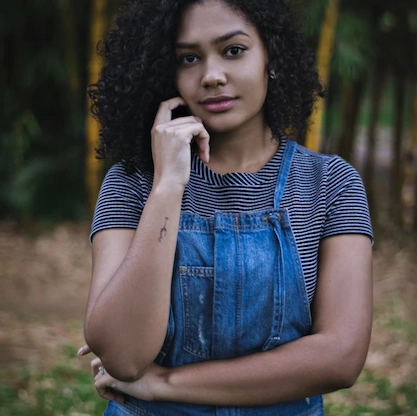
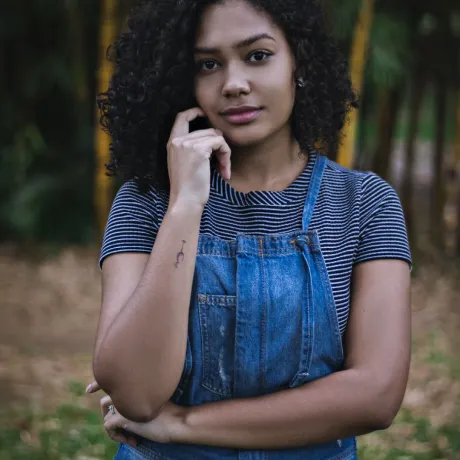
modif_taille

Changed region(s): [[0.4365, 0.3438, 0.9041, 0.7188], [0.2182, 0.4062, 0.3741, 0.5625]]

diff --git a/index.html b/index.html
@@ -141,12 +141,11 @@
     </div>
     <div id="about">
       <div class="picture left">
-        <img width="426" height="425" 
+        <img width="600" height="425" 
         srcset="
-        ./assets/images/nina-small.webp 400w,
-        ./assets/images/nina-min.webp 420w,
-        ./assets/images/nina-medium.webp 700w"
-        src="./assets/images/nina-min.webp"  alt="Autoportrait Nina Carducci" loading="lazy">
+        ./assets/images/nina-small.webp 800w,
+        ./assets/images/nina.webp 1920w"
+        src="./assets/images/nina.webp"  alt="Autoportrait Nina Carducci" loading="lazy">
       </div>
       <div id="about-me">
         <h2 class="about-me__title">A propos de moi</h2>
@@ -323,8 +322,8 @@
         </div>
         <div class="picture right">
           <img width="600" height="418" 
-          srcet="./assets/images/camera-small.webp 260w,
-          ./assets/images/camera.webp 600"
+          srcet="./assets/images/camera-small.webp 800w,
+          ./assets/images/camera.webp 1920w"
           src="./assets/images/camera.webp" alt="Appareil photo" loading="lazy">
         </div>
       </div>
